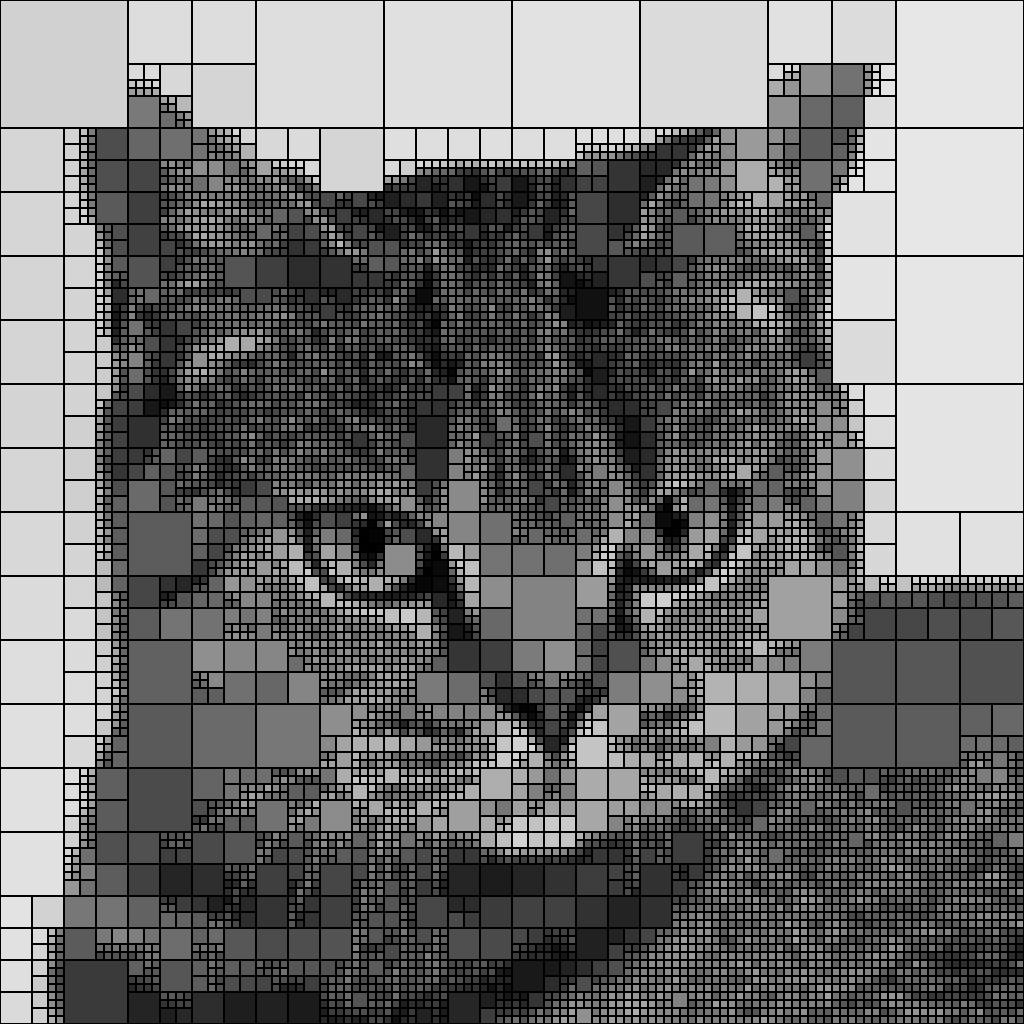
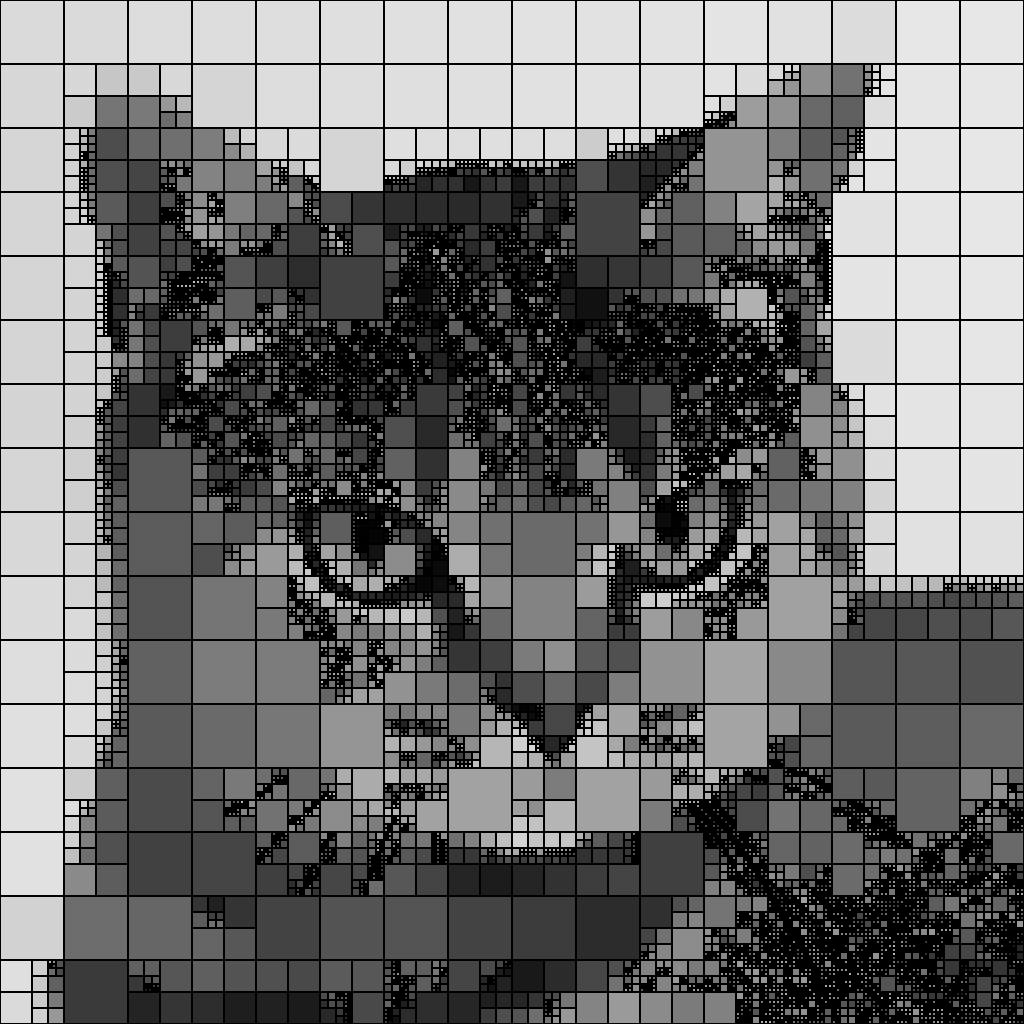
git

diff --git a/quad/quad.java b/quad/quad.java
@@ -104,13 +104,13 @@ public class quad {
 	}
 
 	static void rec(BufferedImage img, int x, int y, int sz, BufferedImage out){
-		if(sz <= 2){
+		if(sz <= 8){
 			fill(img, x, y, sz, out);
 			drawRectangle(img,x,y,sz, out);
 			return;
 		}
 		
-		if(sz > 64 || entropy1(img, x, y, sz) > 25){
+		if( entropy1(img, x, y, sz) > 20){
 			rec(img, x + sz/2, y, sz/2, out);
 			rec(img, x + sz/2, y + sz/2, sz/2, out);
 			rec(img, x, y, sz/2, out);
@@ -130,7 +130,7 @@ public class quad {
 		makeGray(image);
 		rec(image, 0, 0, w, out);
 
-		ImageIO.write(out, "jpeg", new File("output.jpeg"));
+		ImageIO.write(out, "png", new File("output.png"));
 	}
 
 }
